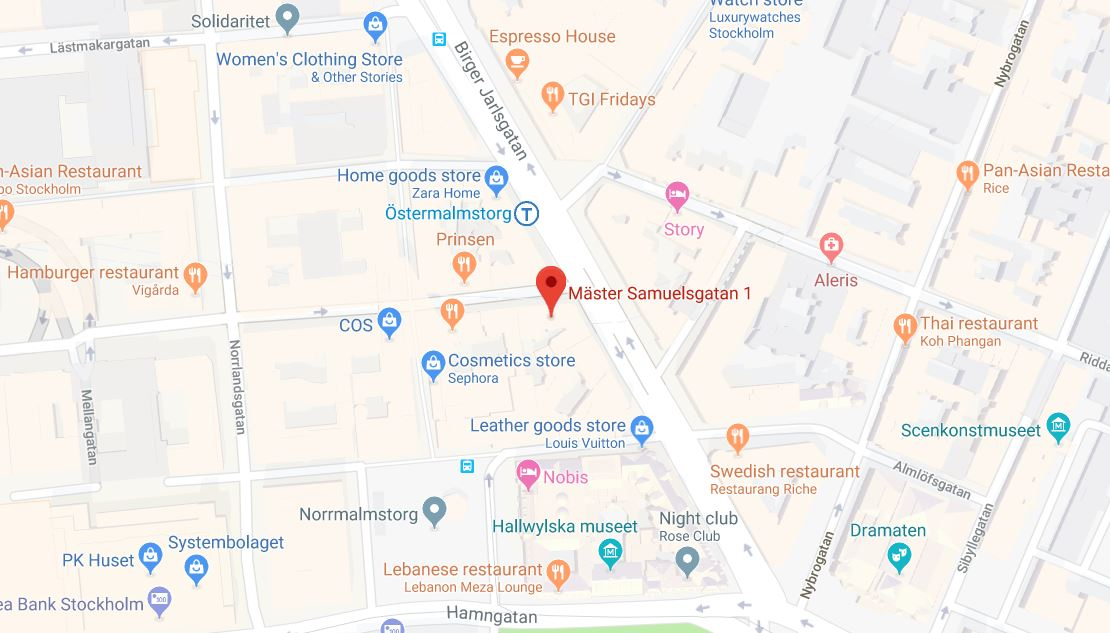
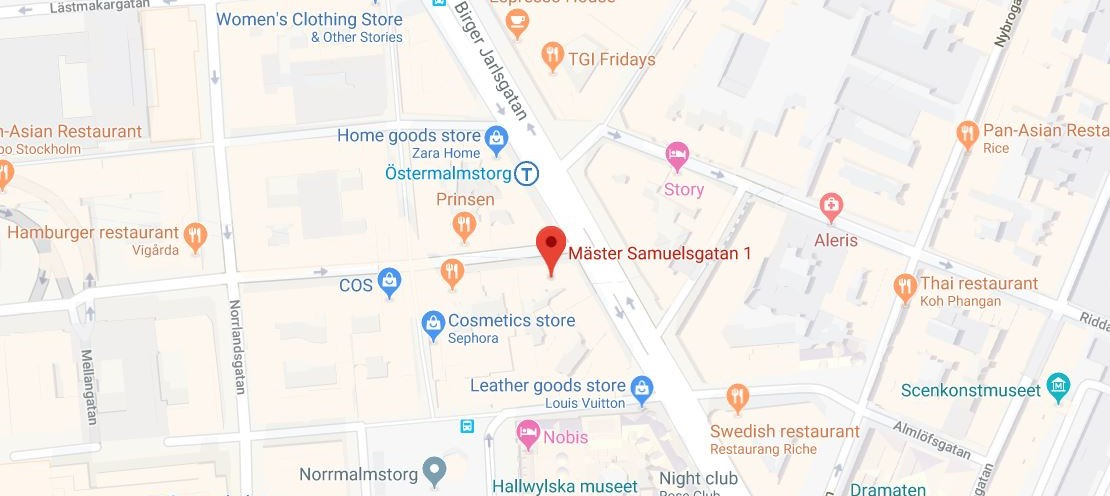
contact page done

diff --git a/my-app/src/components/contact/contact.js b/my-app/src/components/contact/contact.js
@@ -5,38 +5,45 @@ import Nav from "../nav";
 function Contact() {
   return (
     <div>
-      <Nav />
+      <div id="header-faq">
+          <Nav />
+        </div>
       <div id="contact-view">
+	  <div id="contact-content">
         <h1>Kontakta oss!</h1>
         <h2>
           Vänligen titta igenom vår FAQ för svar på de vanligaste frågorna vi
-          får. Hittar du ändå inte det du söker är du mer än välkommen att
-          kontakta oss!
+          får. <br /> Hittar du ändå inte det du söker är du mer än välkommen
+          att kontakta oss!
         </h2>
         <div id="contact-information">
-          <h3>Öppettider</h3>
-          Måndag: STÄNGT <br />
-          Tisdag: 10-20 <br />
-          Onsdag: 10-20 <br />
-          Torsdag: 10-20 <br />
-          Fredag: 9-22 <br />
-          Lördag: 9-22 <br />
-          Söndag 12-20 <br />
-		  <h3>Kontakt</h3>
-		  Telefon: 08 - 123 45 67 <br />
-		  Mail: spa@stockholm.se
-		  <h3>Varmt välkommen!</h3>
+          <div id="opening-hours">
+            <h3>Öppettider</h3>
+            Måndag: STÄNGT <br />
+            Tisdag: 10-20 <br />
+            Onsdag: 10-20 <br />
+            Torsdag: 10-20 <br />
+            Fredag: 9-22 <br />
+            Lördag: 9-22 <br />
+            Söndag 12-20 <br />
+          </div>
+          <div id="adress">
+            <h3>Kontakt</h3>
+            Telefon: 08 - 123 45 67 <br />
+            Mail: spa@stockholm.se
+            <h3>Adress:</h3>
+            Stockholm Spa <br />
+            Mäster Samuelsgatan 1 <br />
+            123 45 Stockholm <br />
+          </div>
+          <div className="clear" />
         </div>
         <div id="contact-map">
-          Stockholm Spa <br />
-          Mäster Samuelsgatan 1 <br />
-          123 45 Stockholm <br />
-          HÄR ÄR EN FIN KARTA
-		  <img src={require('../../images/map.JPG')}></img>
-
+          <img src={require("../../images/map.JPG")} />
         </div>
-        <div className="clear" />
+        <h4>Varmt välkommen!</h4>
       </div>
+	  </div>
     </div>
   );
 }

diff --git a/my-app/src/App.css b/my-app/src/App.css
@@ -27,7 +27,8 @@ input:-webkit-autofill:active {
 
 h1,
 h2,
-h3 {
+h3,
+h4 {
   text-align: center;
   color: #4c586f;
 }
@@ -231,9 +232,6 @@ button:hover {
   height: 100%;
   text-align: center;
   background: white;
-}
-
-#login-popup {
 }
 
 #login-form {
@@ -547,8 +545,7 @@ button:hover {
   width: 90%;
   background: white;
   margin: 0px auto;
-  margin-top: -100px;
-  padding-top: 20px;
+  margin-top: -120px;
 }
 
 .faq-questions {
@@ -568,24 +565,30 @@ button:hover {
   font-style: italic;
 }
 
-/* CONTACT PAGE*/
+/* CONTACT PAGE */
 #contact-view {
   background: #fafafa;
   width: 90%;
   margin: 0px auto;
-}
-
-#contact-information {
-  width: 45%;
-  float: left;
-  border: 1px solid red;
   text-align: center;
+  margin-top: -120px;
 }
 
-#contact-map {
-  width: 45%;
-  float: right;
-  border: 1px solid blue;
+#contact-content {
+  width: 70%;
+  background: white;
+  margin: 0px auto;
+}
+
+#contact-view h2 {
+  font-size: 0.9em;
+  font-style: italic;
+}
+
+#contact-view h4 {
+  margin: 0px auto;
+  padding: 20px;
+  font-size: 1.5em;
 }
 
 #contact-map img {
@@ -735,6 +738,51 @@ button:hover {
   /* TREATMENT PAGE */
   #header-treatments {
     height: 100vh;
+  }
+
+  /* CONTACT PAGE*/
+
+  #contact-view h1 {
+    padding: 20px;
+  }
+
+  #contact-view h2 {
+    font-style: italic;
+    font-size: 1em;
+  }
+
+  #contact-view h4 {
+    margin: 0px auto;
+    padding: 40px;
+    font-size: 2em;
+  }
+
+  #contact-information {
+    text-align: center;
+    width: 60%;
+    margin: 0px auto;
+    height: 100%;
+  }
+
+  #opening-hours {
+    width: 50%;
+    float: left;
+  }
+
+  #adress {
+    width: 50%;
+    float: right;
+  }
+
+  #contact-map {
+    width: 90%;
+    text-align: center;
+    margin: 0px auto;
+    margin-top: 20px;
+  }
+
+  #contact-map img {
+    width: 100%;
   }
 }
 
@@ -931,5 +979,11 @@ button:hover {
   .individual-question {
     width: 70%;
     margin: 0px auto;
+  }
+
+  h1 {
+    padding: 20px;
+    font-size: 2.5em;
+    text-transform: uppercase;
   }
 }
